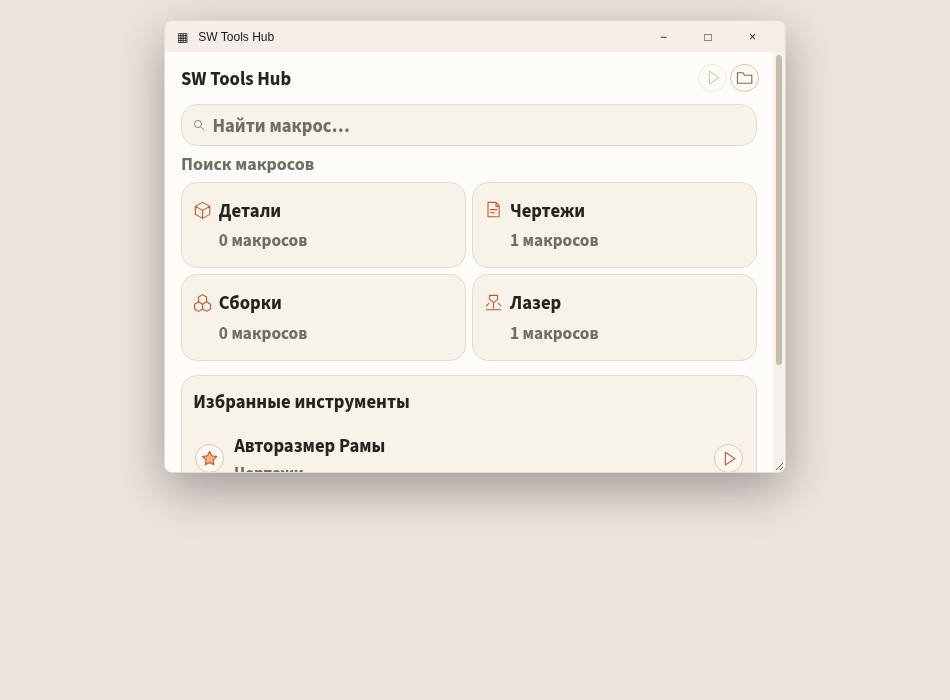
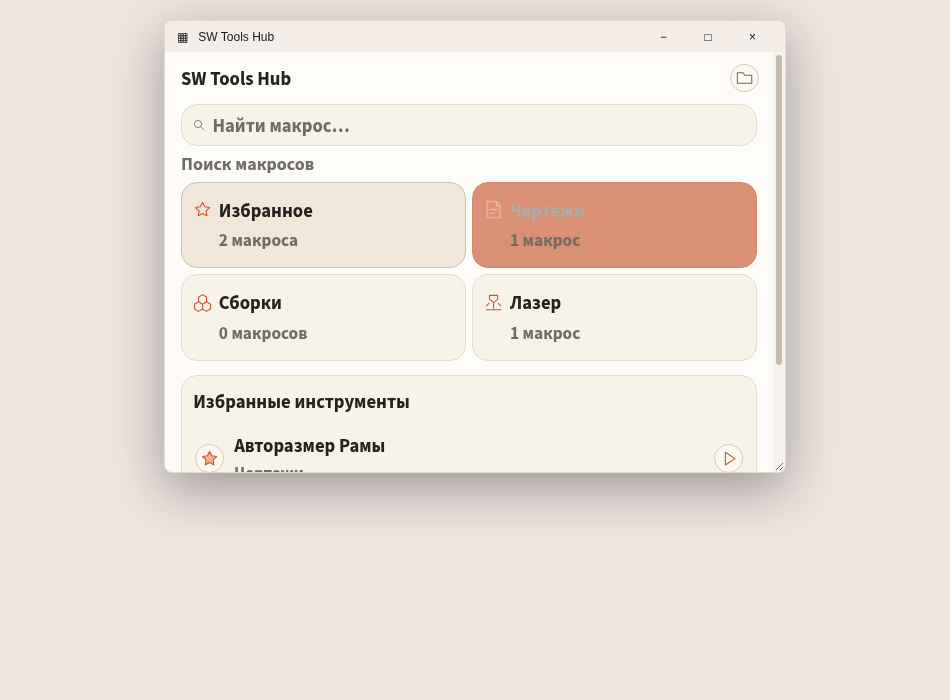
Заменить детали избранным и добавить hover плиток разделов

Changed region(s): [[0.4884, 0.24, 0.8242, 0.39], [0.1832, 0.27, 0.3358, 0.36], [0.6105, 0.45, 0.6411, 0.48]]

diff --git a/docs/preview/index.html b/docs/preview/index.html
@@ -47,12 +47,16 @@ button:focus-visible{outline:2px solid #706D61;outline-offset:2px}
 .status,.footer{display:none}
 @container (max-width:719px){.modules{grid-template-columns:repeat(2,minmax(0,1fr));height:calc(224px * var(--s))}}
 .app::-webkit-scrollbar{width:12px}.app::-webkit-scrollbar-track{background:#F6F2EA}.app::-webkit-scrollbar-thumb{background:#C5BCAF;border:3px solid #F6F2EA;border-radius:8px}.app::-webkit-scrollbar-thumb:hover{background:#AFA18E}
-</style><body><div class="window"><div class="titlebar"><span>▦ &nbsp; SW Tools Hub</span><span>− □ ×</span></div><main class="app"><div class="page"><header class="header"><strong>SW Tools Hub</strong><div class="toolbar"><button class="disabled" title="Выберите макрос для запуска"><svg viewBox="0 0 24 24"><path d="m8 4 12 8-12 8Z"/></svg></button><button title="Выбрать папку библиотеки" onclick="document.getElementById('status').textContent='В приложении откроется системный выбор папки Windows.'"><svg viewBox="0 0 24 24"><path d="M3 6h7l2 3h9v10H3Z"/></svg></button></div></header><div class="search"><svg viewBox="0 0 24 24"><circle cx="10" cy="10" r="6"/><path d="m15 15 5 5"/></svg><input aria-label="Поиск макросов" oninput="render()" placeholder="Найти макрос…"></div><div class="hint">Поиск макросов</div><section class="modules"><button class="tile" onclick="show('Детали',this)"><span class="caption"><svg viewBox="0 0 24 24"><path d="m12 3 9 5v10l-9 5-9-5V8Zm0 10 9-5M3 8l9 5v10"/></svg>Детали</span><small>0 макросов</small></button><button class="tile" onclick="show('Чертежи',this)"><span class="caption"><svg viewBox="0 0 24 24"><path d="M5 3h10l4 4v14H5Zm10 0v5h4M8 12h8M8 16h5"/></svg>Чертежи</span><small>0 макросов</small></button><button class="tile" onclick="show('Сборки',this)"><span class="caption"><svg viewBox="0 0 24 24"><path d="m12 2 5 3v6l-5 3-5-3V5Zm-5 9-5 3v6l5 3 5-3v-6Zm10 0-5 3v6l5 3 5-3v-6Z"/></svg>Сборки</span><small>0 макросов</small></button><button class="tile" onclick="show('Лазер',this)"><span class="caption"><svg viewBox="0 0 24 24"><path d="M7 3h10v5l-5 4-5-4Zm5 9v7M3 21h18M6 13l-3 3m15-3 3 3"/></svg>Лазер</span><small>0 макросов</small></button></section><section class="content"><h2 id="heading">Избранные инструменты</h2><div id="rows"></div><p class="empty" id="empty">Нажмите ☆ рядом с макросом в разделе,<br>чтобы добавить его в избранное.</p></section><div class="status" id="status">Добавьте .swp в папки разделов библиотеки.</div><footer class="footer">0 инструментов · Portable</footer></div></main></div><script>
+.tile{transition:background-color .14s ease,color .14s ease,border-color .14s ease}.tile svg{transition:transform .14s ease,color .14s ease}
+.tile:hover{background:#C6532E;color:#FFFFFF;border-color:#C6532E}.tile:hover svg,.tile:hover small{color:#FFFFFF}.tile:hover svg{transform:scale(1.2)}
+</style><body><div class="window"><div class="titlebar"><span>▦ &nbsp; SW Tools Hub</span><span>− □ ×</span></div><main class="app"><div class="page"><header class="header"><strong>SW Tools Hub</strong><div class="toolbar"><button title="Выбрать папку библиотеки" onclick="document.getElementById('status').textContent='В приложении откроется системный выбор папки Windows.'"><svg viewBox="0 0 24 24"><path d="M3 6h7l2 3h9v10H3Z"/></svg></button></div></header><div class="search"><svg viewBox="0 0 24 24"><circle cx="10" cy="10" r="6"/><path d="m15 15 5 5"/></svg><input aria-label="Поиск макросов" oninput="render()" placeholder="Найти макрос…"></div><div class="hint">Поиск макросов</div><section class="modules"><button class="tile" onclick="show('Избранное',this)"><span class="caption"><svg viewBox="0 0 24 24"><path d="m12 3 2.7 5.5 6.1.9-4.4 4.3 1 6.1-5.4-2.9-5.4 2.9 1-6.1-4.4-4.3 6.1-.9Z"/></svg>Избранное</span><small>0 макросов</small></button><button class="tile" onclick="show('Чертежи',this)"><span class="caption"><svg viewBox="0 0 24 24"><path d="M5 3h10l4 4v14H5Zm10 0v5h4M8 12h8M8 16h5"/></svg>Чертежи</span><small>0 макросов</small></button><button class="tile" onclick="show('Сборки',this)"><span class="caption"><svg viewBox="0 0 24 24"><path d="m12 2 5 3v6l-5 3-5-3V5Zm-5 9-5 3v6l5 3 5-3v-6Zm10 0-5 3v6l5 3 5-3v-6Z"/></svg>Сборки</span><small>0 макросов</small></button><button class="tile" onclick="show('Лазер',this)"><span class="caption"><svg viewBox="0 0 24 24"><path d="M7 3h10v5l-5 4-5-4Zm5 9v7M3 21h18M6 13l-3 3m15-3 3 3"/></svg>Лазер</span><small>0 макросов</small></button></section><section class="content"><h2 id="heading">Избранные инструменты</h2><div id="rows"></div><p class="empty" id="empty">Нажмите ☆ рядом с макросом в разделе,<br>чтобы добавить его в избранное.</p></section><div class="status" id="status">Добавьте .swp в папки разделов библиотеки.</div><footer class="footer">0 инструментов · Portable</footer></div></main></div><script>
 // Данные только для предварительного просмотра: рабочие .swp не добавляются.
 const macros=[{name:'Авторазмер Рамы',category:'Чертежи',favorite:true},{name:'Экспорт DXF',category:'Лазер',favorite:true}];
 let section=null, selected=null;
-function show(title,button){section=section===title?null:title;render()}
-function render(){const query=document.querySelector('input').value.trim().toLowerCase();const home=!section&&!query;document.getElementById('heading').textContent=home?'Избранные инструменты':query?'Результаты поиска':section;document.querySelectorAll('.tile').forEach((tile,i)=>{const category=['Детали','Чертежи','Сборки','Лазер'][i];tile.classList.toggle('active',section===category);tile.querySelector('small').textContent=macros.filter(m=>m.category===category).length+' макросов'});const visible=macros.filter(m=>(!section||m.category===section)&&(!home||m.favorite)&&m.name.toLowerCase().includes(query));const rows=document.getElementById('rows');rows.replaceChildren();visible.forEach(m=>{const row=document.createElement('div');row.className='macro-row';const star=document.createElement('button');star.className='row-star';star.innerHTML='<svg viewBox="0 0 24 24" style="fill:'+(m.favorite?'#F3B28A':'none')+'"><path d="m12 3 2.7 5.5 6.1.9-4.4 4.3 1 6.1-5.4-2.9-5.4 2.9 1-6.1-4.4-4.3 6.1-.9Z"/></svg>';star.title=(m.favorite?'Убрать из избранного: ':'В избранное: ')+m.name;star.onclick=()=>{m.favorite=!m.favorite;render()};const name=document.createElement('button');name.className='macro-name'+(selected===m?' selected':'');const title=document.createElement('span');title.textContent=m.name;name.append(title);if(home){const subtitle=document.createElement('small');subtitle.textContent=m.category;name.append(subtitle)}name.onclick=()=>{selected=m;render()};const play=document.createElement('button');play.className='row-play';play.title='Запустить: '+m.name;play.innerHTML='<svg viewBox="0 0 24 24"><path d="m8 4 12 8-12 8Z"/></svg>';play.onclick=()=>{selected=m;render()};row.append(star,name,play);rows.append(row)});document.getElementById('empty').style.display=visible.length?'none':'block';document.getElementById('empty').textContent=home?'Нажмите ☆ рядом с макросом в разделе, чтобы добавить его в избранное.':'Макросов пока нет. Измените запрос или раздел.';const play=document.querySelector('.toolbar button');play.classList.toggle('disabled',!visible.includes(selected));play.classList.toggle('play-active',visible.includes(selected));play.title=visible.includes(selected)?'Выбрать процедуру и запустить: '+selected.name:'Выберите макрос для запуска'}
+function macroCount(value){const form=new Intl.PluralRules('ru').select(value);return value+' '+({one:'макрос',few:'макроса',many:'макросов',other:'макроса'}[form])}
+function show(title,button){if(title==='Избранное'){section=null;document.querySelector('input').value=''}else section=section===title?null:title;render()}
+function render(){const query=document.querySelector('input').value.trim().toLowerCase();const home=!section&&!query;document.getElementById('heading').textContent=home?'Избранные инструменты':query?'Результаты поиска':section;document.querySelectorAll('.tile').forEach((tile,i)=>{const category=['Избранное','Чертежи','Сборки','Лазер'][i];tile.classList.toggle('active',i===0?section===null:section===category);tile.querySelector('small').textContent=macroCount(macros.filter(m=>i===0?m.favorite:m.category===category).length)});const visible=macros.filter(m=>(!section||m.category===section)&&(!home||m.favorite)&&m.name.toLowerCase().includes(query));const rows=document.getElementById('rows');rows.replaceChildren();visible.forEach(m=>{const row=document.createElement('div');row.className='macro-row';const star=document.createElement('button');star.className='row-star';star.innerHTML='<svg viewBox="0 0 24 24" style="fill:'+(m.favorite?'#F3B28A':'none')+'"><path d="m12 3 2.7 5.5 6.1.9-4.4 4.3 1 6.1-5.4-2.9-5.4 2.9 1-6.1-4.4-4.3 6.1-.9Z"/></svg>';star.title=(m.favorite?'Убрать из избранного: ':'В избранное: ')+m.name;star.onclick=()=>{m.favorite=!m.favorite;render()};const name=document.createElement('button');name.className='macro-name'+(selected===m?' selected':'');const title=document.createElement('span');title.textContent=m.name;name.append(title);if(home){const subtitle=document.createElement('small');subtitle.textContent=m.category;name.append(subtitle)}name.onclick=()=>{selected=m;render()};const play=document.createElement('button');play.className='row-play';play.title='Запустить: '+m.name;play.innerHTML='<svg viewBox="0 0 24 24"><path d="m8 4 12 8-12 8Z"/></svg>';play.onclick=()=>{selected=m;render()};row.append(star,name,play);rows.append(row)});document.getElementById('empty').style.display=visible.length?'none':'block';document.getElementById('empty').textContent=home?'Нажмите ☆ рядом с макросом в разделе, чтобы добавить его в избранное.':'Макросов пока нет. Измените запрос или раздел.'}
+
 render();
 const app=document.querySelector('.app');
 new ResizeObserver(()=>app.style.setProperty('--s',Math.max(.8,Math.min(1.5,app.clientWidth/900)))).observe(app);

diff --git a/addin/portable/Program.cs b/addin/portable/Program.cs
@@ -26,7 +26,6 @@ namespace SWToolsHub.Portable
         private readonly string root = AppDomain.CurrentDomain.BaseDirectory;
         private readonly TextBox search = new TextBox { Dock = DockStyle.Fill, BorderStyle = BorderStyle.None };
         private readonly ListBox list = new ListBox { Dock = DockStyle.Fill, DisplayMember = "name" };
-        private readonly Button run = new RoundedButton { Dock = DockStyle.Bottom, Height = 44, Text = "Выбрать процедуру и запустить…" };
         private readonly Label status = new Label { Dock = DockStyle.Bottom, Height = 90, AutoEllipsis = true };
         private Macro[] macros = new Macro[0];
         private bool busy;
@@ -84,14 +83,13 @@ namespace SWToolsHub.Portable
             shell.ColumnStyles.Add(new ColumnStyle(SizeType.Percent, 100));
             foreach (var height in new[] { 64, 56, 30, 120 }) shell.RowStyles.Add(new RowStyle(SizeType.Absolute, height));
             shell.RowStyles.Add(new RowStyle(SizeType.Percent, 100));
-            header = new TableLayoutPanel { Dock = DockStyle.Fill, ColumnCount = 3, RowCount = 1, Padding = new Padding(20, 12, 16, 12) };
+            header = new TableLayoutPanel { Dock = DockStyle.Fill, ColumnCount = 2, RowCount = 1, Padding = new Padding(20, 12, 16, 12) };
             header.ColumnStyles.Add(new ColumnStyle(SizeType.Percent, 100));
-            for (int i = 0; i < 2; i++) header.ColumnStyles.Add(new ColumnStyle(SizeType.Absolute, Px(40)));
+            for (int i = 0; i < 1; i++) header.ColumnStyles.Add(new ColumnStyle(SizeType.Absolute, Px(40)));
             var brand = new Label { Text = "SW Tools Hub", Dock = DockStyle.Fill, TextAlign = ContentAlignment.MiddleLeft, Font = titleFont };
             var choose = MakeButton("");
-            ConfigureIcon(run, "play", "Выбрать процедуру и запустить выбранный макрос");
             ConfigureIcon(choose, "folder", "Выбрать корневую папку библиотеки");
-            header.Controls.Add(brand, 0, 0); header.Controls.Add(run, 1, 0); header.Controls.Add(choose, 2, 0);
+            header.Controls.Add(brand, 0, 0); header.Controls.Add(choose, 1, 0);
             searchBox = new RoundedPanel { Dock = DockStyle.Fill, Padding = new Padding(12, 12, 12, 8), Margin = new Padding(20, 0, 20, 8), BackColor = Surface };
             search.BackColor = Surface; search.ForeColor = Foreground; search.AccessibleName = "Поиск макросов";
             searchBox.Controls.Add(search); tips.SetToolTip(search, "Поиск по выбранному разделу; на главной — по всей библиотеке");
@@ -107,7 +105,6 @@ namespace SWToolsHub.Portable
             content.BackColor = Surface; content.Padding = new Padding(0);
             libraryFrame.Controls.Add(content);
             shell.Controls.Add(moduleGrid, 0, 3); shell.Controls.Add(libraryFrame, 0, 4);
-            status.TextChanged += (s, e) => tips.SetToolTip(run, "Выбрать процедуру и запустить выбранный макрос\n" + status.Text);
             viewport.Controls.Add(shell); Controls.Add(viewport);
             viewport.SizeChanged += (s, e) => RefreshLayout();
             choose.Click += (s, e) => {
@@ -124,8 +121,6 @@ namespace SWToolsHub.Portable
             refresh.Tick += (s, e) => ReloadFolder();
             FormClosed += (s, e) => { refresh.Dispose(); tips.Dispose(); titleFont.Dispose(); };
             search.TextChanged += (s, e) => Filter();
-            list.SelectedIndexChanged += (s, e) => run.Enabled = !busy && list.SelectedItem != null;
-            run.Click += (s, e) => RunSelected(true);
             FormClosing += (s, e) => { if (busy) e.Cancel = true; };
             Shown += (s, e) => {
                 try {
@@ -144,7 +139,6 @@ namespace SWToolsHub.Portable
             var selectedId = (list.SelectedItem as Macro)?.id;
             list.DataSource = VisibleMacros();
             list.SelectedItem = selectedId == null ? null : macros.FirstOrDefault(m => m.id == selectedId);
-            run.Enabled = !busy && list.SelectedItem != null;
             RefreshLayout();
         }
         private Macro[] VisibleMacros()
@@ -235,7 +229,7 @@ namespace SWToolsHub.Portable
                 var heights = new[] { Px(64), Math.Max(Px(56), Font.Height + Px(28)), Math.Max(Px(30), Font.Height + Px(4)), Px(narrow ? 240 : 120) };
                 for (int i = 0; i < heights.Length; i++) shell.RowStyles[i].Height = heights[i];
                 header.Padding = Space(20, 12, 16, 12);
-                header.ColumnStyles[1].Width = header.ColumnStyles[2].Width = Px(40);
+                header.ColumnStyles[1].Width = Px(40);
                 foreach (var button in header.Controls.OfType<RoundedButton>()) { button.IconSize = Px(24); button.Margin = new Padding(Px(2)); }
                 searchBox.Padding = Space(12, 12, 12, 8); searchBox.Margin = Space(20, 0, 20, 8);
                 heading.Padding = Space(20, 0, 0, 0);
@@ -264,6 +258,12 @@ namespace SWToolsHub.Portable
                 RenderLibrary();
             } finally { updatingLayout = false; }
         }
+        private static string MacroCount(int value)
+        {
+            int last = value % 10, pair = value % 100;
+            string word = pair >= 11 && pair <= 14 ? "макросов" : last == 1 ? "макрос" : last >= 2 && last <= 4 ? "макроса" : "макросов";
+            return value + " " + word;
+        }
         private void RenderLibrary()
         {
             if (content.IsDisposed) return;
@@ -273,16 +273,19 @@ namespace SWToolsHub.Portable
             bool searching = !string.IsNullOrWhiteSpace(search.Text);
             moduleGrid.SuspendLayout();
             foreach (Control child in moduleGrid.Controls.Cast<Control>().ToArray()) child.Dispose();
-            var symbols = new[] { "part", "drawing", "assembly", "laser" };
-            for (int i = 0; i < MacroFolder.Modules.Length; i++) {
-                string module = MacroFolder.Modules[i];
+            var symbols = new[] { "star", "drawing", "assembly", "laser" };
+            var views = new[] { "Избранное", "Чертежи", "Сборки", "Лазер" };
+            for (int i = 0; i < views.Length; i++) {
+                string module = views[i];
+                bool favoritesView = i == 0;
                 var tile = MakeButton(module);
-                ((RoundedButton)tile).SecondaryText = macros.Count(m => m.category == module) + " макросов";
+                ((RoundedButton)tile).SecondaryText = MacroCount(macros.Count(m => favoritesView ? settings.Favorites.Contains(m.id, StringComparer.OrdinalIgnoreCase) : m.category == module));
+                ((RoundedButton)tile).AccentHover = true;
                 tile.Image = DrawIcon(symbols[i]); ((RoundedButton)tile).LeadingIcon = true; ((RoundedButton)tile).IconSize = Px(24);
                 tile.Disposed += (s, e) => tile.Image.Dispose();
                 tile.Dock = DockStyle.Fill; tile.Margin = new Padding(Px(4)); tile.AccessibleName = module;
-                if (section == module) tile.BackColor = UiTheme.Selected;
-                tile.Click += (s, e) => Navigate(section == module ? null : module);
+                if (favoritesView ? section == null : section == module) tile.BackColor = UiTheme.Selected;
+                tile.Click += (s, e) => { if (favoritesView) { search.Clear(); Navigate(null); } else Navigate(section == module ? null : module); };
                 moduleGrid.Controls.Add(tile, i % moduleGrid.ColumnCount, i / moduleGrid.ColumnCount);
             }
             moduleGrid.ResumeLayout();
@@ -332,7 +335,7 @@ namespace SWToolsHub.Portable
             if (busy) return;
             var selected = list.SelectedItem as Macro;
             if (selected == null) { ShowError("Выберите инструмент."); return; }
-            busy = true; run.Enabled = false; list.Enabled = false; content.Enabled = false; moduleGrid.Enabled = false;
+            busy = true; list.Enabled = false; content.Enabled = false; moduleGrid.Enabled = false;
             SldWorks sw = null; ModelDoc2 document = null;
             try
             {
@@ -377,7 +380,7 @@ namespace SWToolsHub.Portable
             finally
             {
                 Release(document); Release(sw);
-                busy = false; list.Enabled = true; content.Enabled = true; moduleGrid.Enabled = true; run.Enabled = list.SelectedItem != null;
+                busy = false; list.Enabled = true; content.Enabled = true; moduleGrid.Enabled = true;
             }
         }
         private static void Release(object value)

diff --git a/addin/portable/UiTheme.cs b/addin/portable/UiTheme.cs
@@ -120,7 +120,7 @@ namespace SWToolsHub.Portable
                 var lineFlags = TextFormatFlags.Left | TextFormatFlags.SingleLine | TextFormatFlags.EndEllipsis;
                 TextRenderer.DrawText(e.Graphics, Text, Font, titleBounds, textColor, lineFlags);
                 using (var detailFont = new Font(Font.FontFamily, Math.Max(8, Font.Size - 1), Font.Style))
-                    TextRenderer.DrawText(e.Graphics, SecondaryText, detailFont, detailBounds, UiTheme.Muted, lineFlags);
+                    TextRenderer.DrawText(e.Graphics, SecondaryText, detailFont, detailBounds, accentActive ? Color.White : UiTheme.Muted, lineFlags);
             } else TextRenderer.DrawText(e.Graphics, Text, Font, textBounds, textColor, flags);
         }
     }

diff --git a/docs/HANDOFF.md b/docs/HANDOFF.md
@@ -1,5 +1,33 @@
 # Продолжение разработки SW Tools Hub
 
+## Плитка «Избранное», hover разделов и удаление верхнего запуска (9 ноября 2026)
+
+Навигация теперь: «Избранное», «Чертежи», «Сборки», «Лазер».
+«Детали» убраны из плиток. Плитка «Избранное» открывает общий список
+макросов, отмеченных звёздочкой в любом разделе, и показывает количество
+существующих избранных файлов. Повторные добавления не дублируют запись;
+удаление через звёздочку обновляет список/счётчик. Под названиями остаются
+исходные разделы. Избранное виртуальное — файлы не копируются и не перемещаются.
+Сохранение идёт в прежний portable.json по полному пути, старые избранные
+сохраняются. Папка «Детали» и её файлы не удаляются: сканер совместим
+со старой библиотекой, файлы доступны глобальным поиском и в избранном.
+
+Верхняя кнопка play полностью удалена; в шапке только выбор папки.
+Запуск доступен у строки макроса. Все четыре плитки получили прежний
+эффект play: акцентный фон, белые название/счётчик/значок, значок +20%
+без изменения размеров плитки. Подпись счётчика согласуется с числом:
+«1 макрос», «2 макроса», «5 макросов». Адаптивность и общая прокрутка сохранены.
+
+Сборка net48: 0 ошибок и предупреждений. В браузерном макете проверены
+новые плитки и счётчик избранного, добавление/удаление из чертежей,
+сборок и лазера, подписи источников, пустое избранное, сброс поиска
+при переходе в избранное, одна верхняя кнопка папки, hover всех четырёх
+плиток с белыми счётчиками и без сдвига, две колонки и вертикальная прокрутка.
+Обновлены обычное, hover и компактное превью; данные демонстрационные.
+ZIP и SHA-256 пересобраны. WinForms/DPI и COM/VBA после изменения
+не запускались в Linux — требуется проверка в Windows.
+
+
 ## Компактное адаптивное окно и общая прокрутка (9 ноября 2026)
 
 Стартовый клиентский размер возвращён к 900 × 600, Source Sans 3 Bold

diff --git a/addin/portable/README.md b/addin/portable/README.md
@@ -1,5 +1,33 @@
 # Переносимое приложение
 
+## Плитка «Избранное», hover разделов и удаление верхнего запуска (9 ноября 2026)
+
+Навигация теперь: «Избранное», «Чертежи», «Сборки», «Лазер».
+«Детали» убраны из плиток. Плитка «Избранное» открывает общий список
+макросов, отмеченных звёздочкой в любом разделе, и показывает количество
+существующих избранных файлов. Повторные добавления не дублируют запись;
+удаление через звёздочку обновляет список/счётчик. Под названиями остаются
+исходные разделы. Избранное виртуальное — файлы не копируются и не перемещаются.
+Сохранение идёт в прежний portable.json по полному пути, старые избранные
+сохраняются. Папка «Детали» и её файлы не удаляются: сканер совместим
+со старой библиотекой, файлы доступны глобальным поиском и в избранном.
+
+Верхняя кнопка play полностью удалена; в шапке только выбор папки.
+Запуск доступен у строки макроса. Все четыре плитки получили прежний
+эффект play: акцентный фон, белые название/счётчик/значок, значок +20%
+без изменения размеров плитки. Подпись счётчика согласуется с числом:
+«1 макрос», «2 макроса», «5 макросов». Адаптивность и общая прокрутка сохранены.
+
+Сборка net48: 0 ошибок и предупреждений. В браузерном макете проверены
+новые плитки и счётчик избранного, добавление/удаление из чертежей,
+сборок и лазера, подписи источников, пустое избранное, сброс поиска
+при переходе в избранное, одна верхняя кнопка папки, hover всех четырёх
+плиток с белыми счётчиками и без сдвига, две колонки и вертикальная прокрутка.
+Обновлены обычное, hover и компактное превью; данные демонстрационные.
+ZIP и SHA-256 пересобраны. WinForms/DPI и COM/VBA после изменения
+не запускались в Linux — требуется проверка в Windows.
+
+
 ## Компактное адаптивное окно и общая прокрутка (9 ноября 2026)
 
 Стартовый клиентский размер возвращён к 900 × 600, Source Sans 3 Bold
